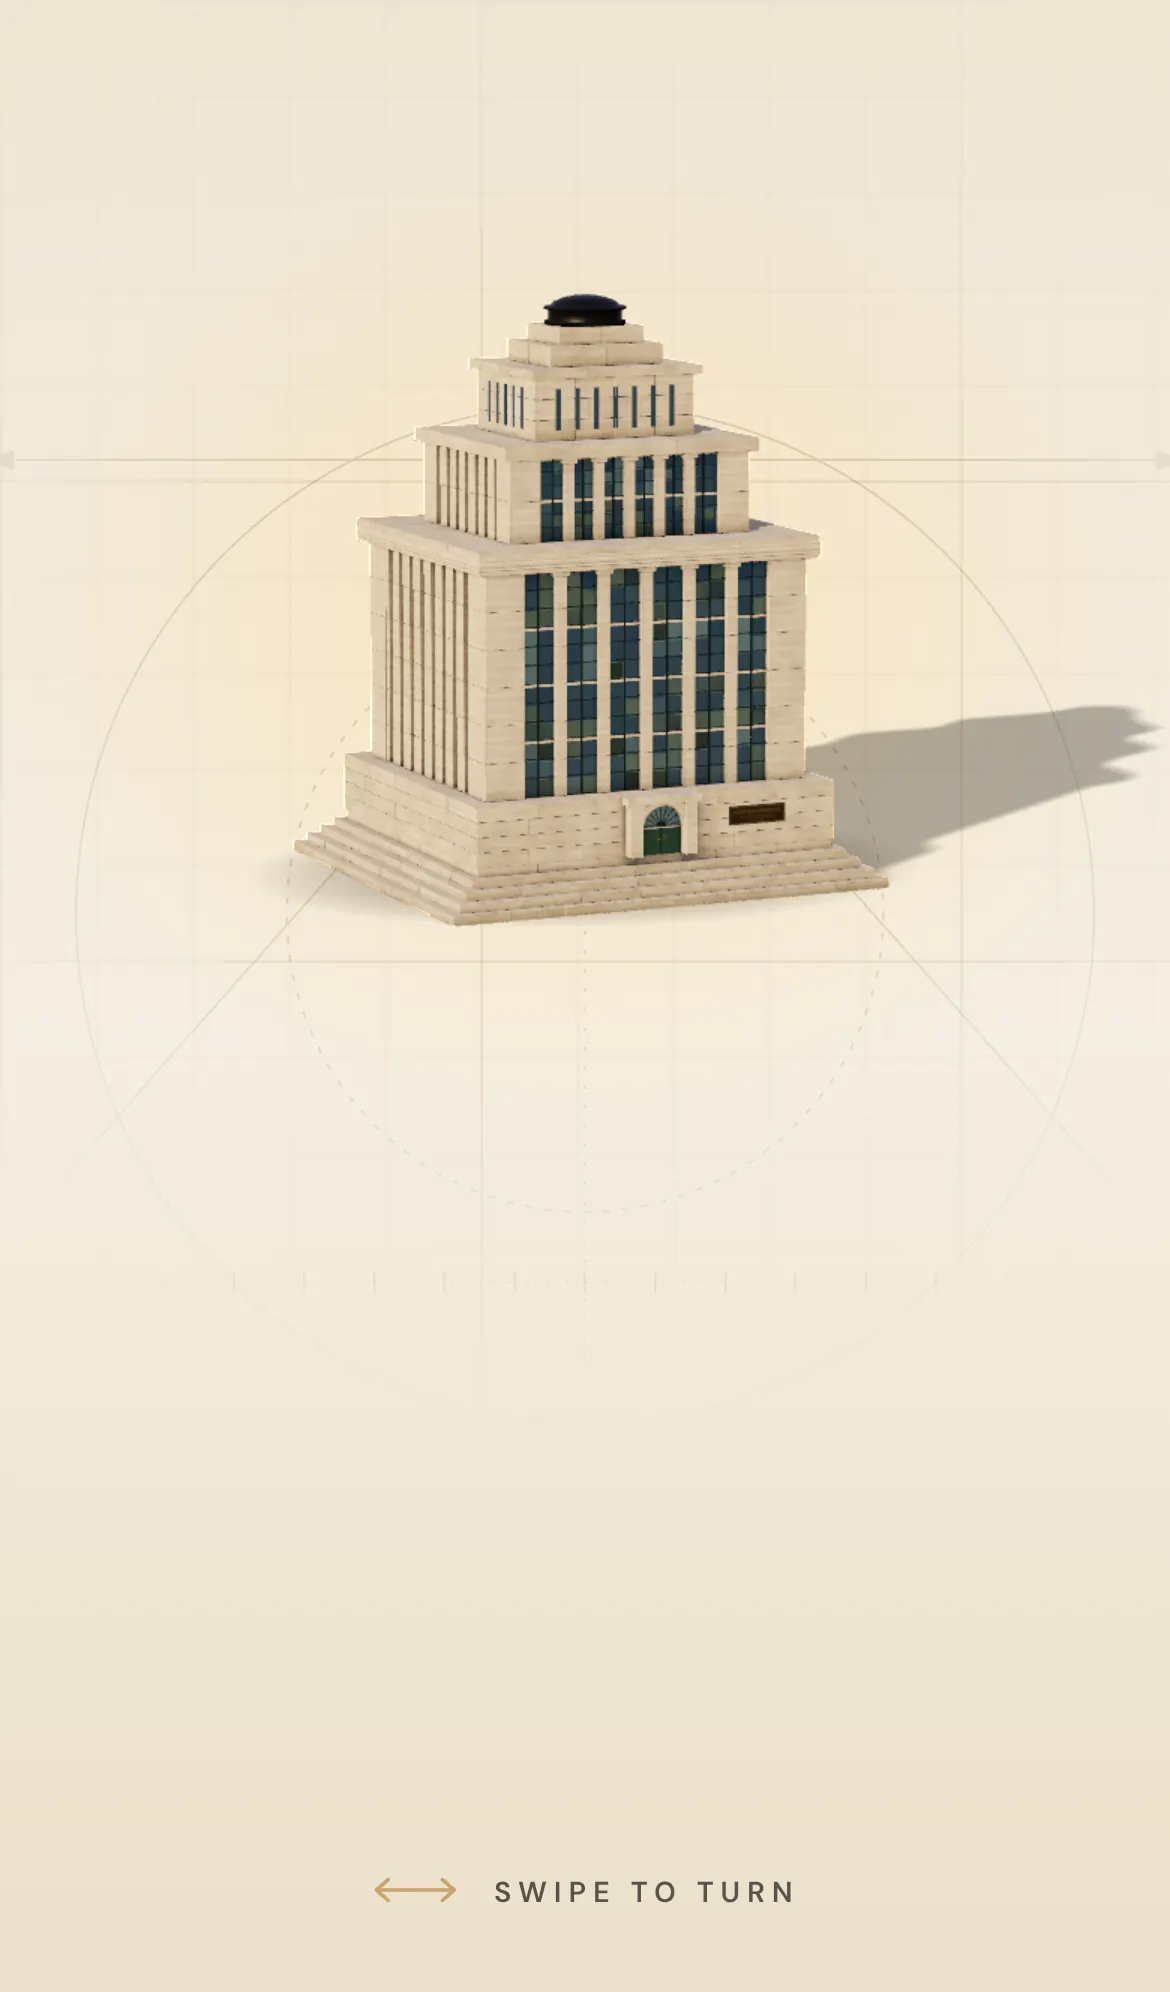
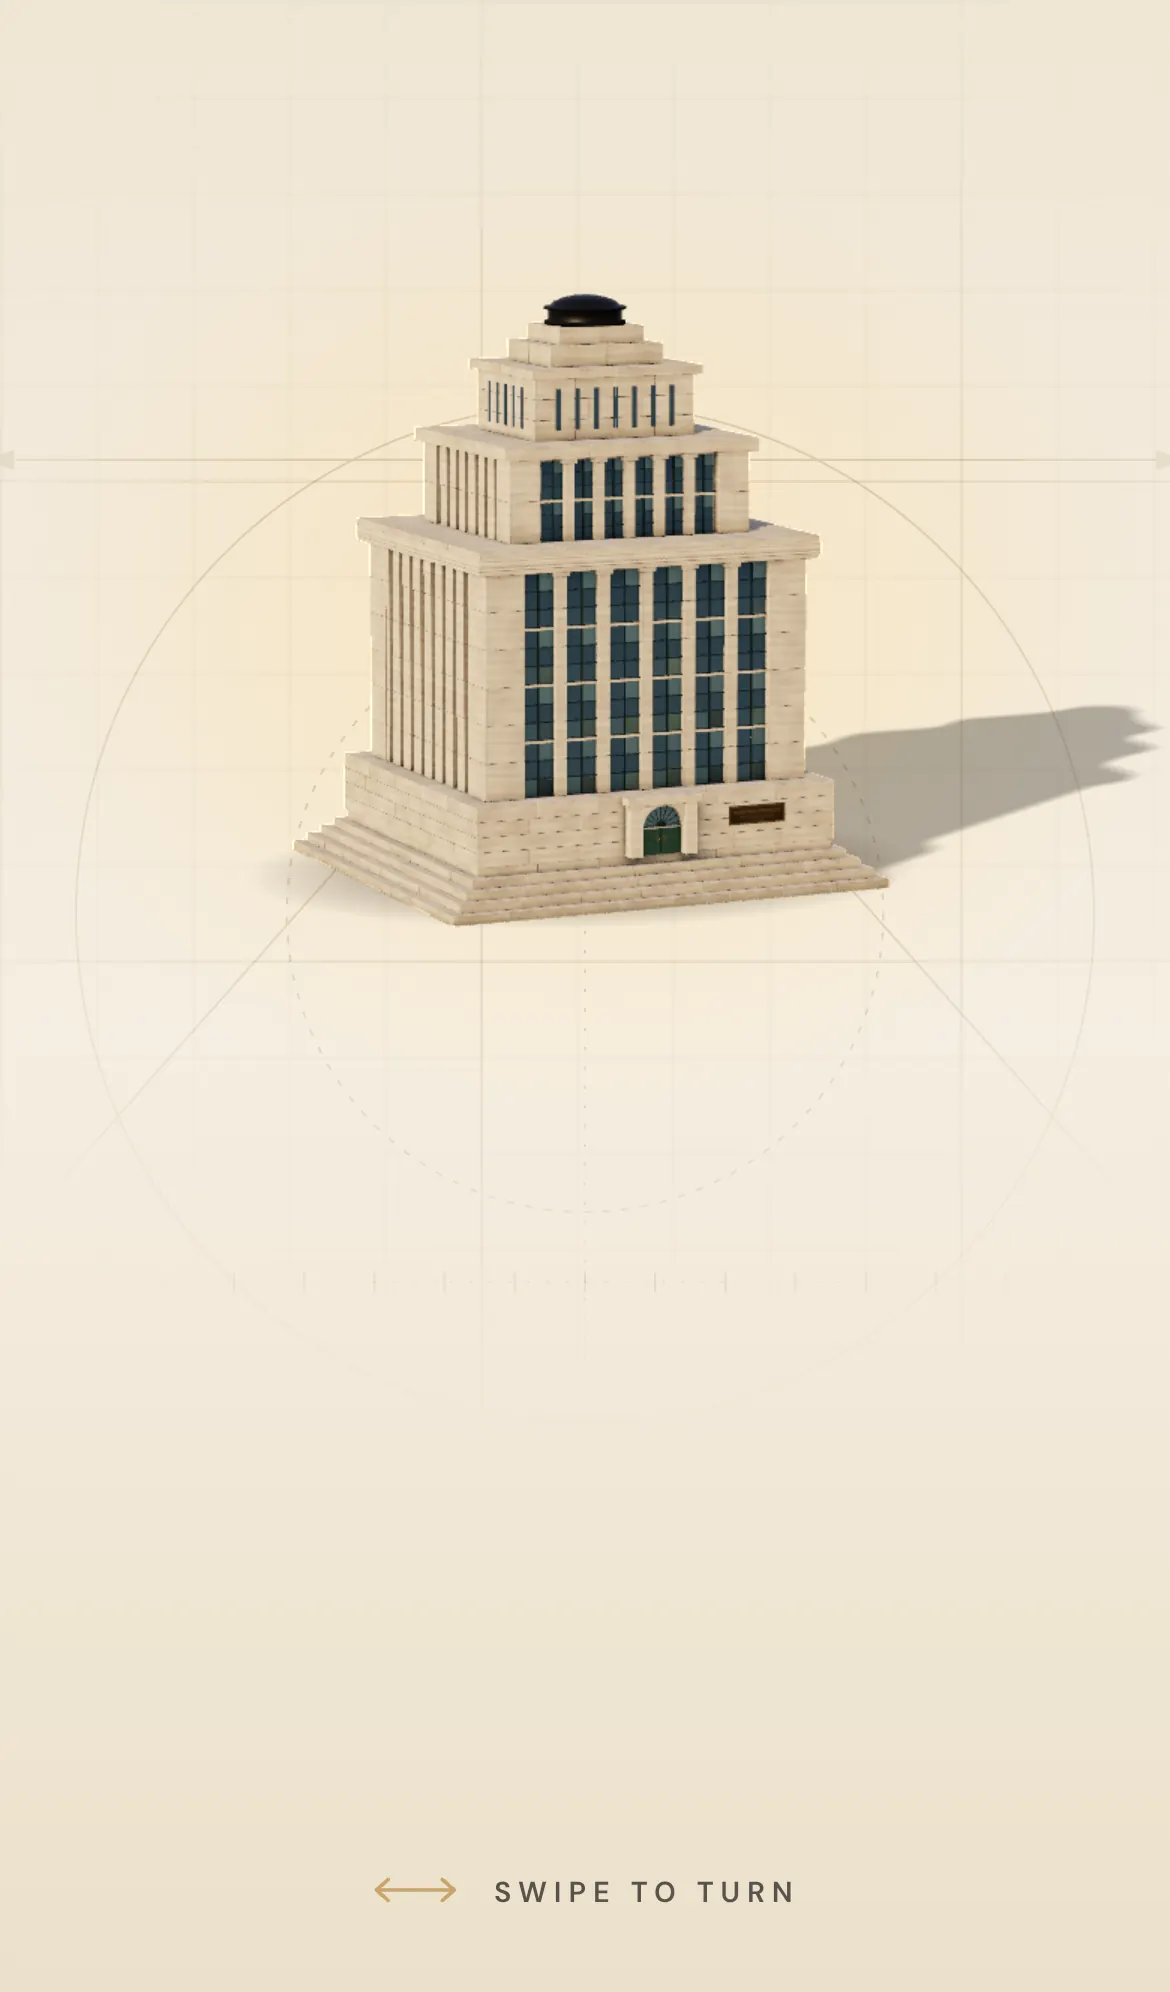
Build trade by trade: steel, then stone, then glass
Of the three construction orders, this is the one kept. In each glazed
stage the whole steel frame goes up first, lowered from above; the
stone then climbs it course by course, streaming in from the right; and
the glazing is fitted last, panel by panel. The ?build= switch and the
other two orders are removed.

The stills for browsers without WebGL are re-rendered from the tower as
it now stands.

Claude-Session: https://claude.ai/code/session_01BEd7WGPKnwpNapDZuMXaLG

Changed region(s): [[0.4308, 0.2179, 0.6769, 0.4046]]

diff --git a/assets/fee-tower.js b/assets/fee-tower.js
@@ -217,18 +217,16 @@ function start() {
   //            part of its own: it waits off screen, is called in as the visitor scrolls, and takes its place ----------
   const model = new THREE.Group();
   scene.add(model);
-  // three ways to build, for comparison (?build=2 or 3): storey by storey; trade by trade (steel, then stone, then
-  // glass); or storey by storey with every part lowered from above
-  const MODE = { 2: 'trades', 3: 'lowered' }[new URLSearchParams(location.search).get('build')] || 'storeys';
-  const WAY = MODE === 'lowered' ? [[0, 32, 0], [0, 32, 0], [0, 32, 0]] // where each trade's parts come from: steel, stone, glass
-    : MODE === 'trades' ? [[0, 30, 0], [54, 5, -5], [38, 22, -14]] : [[54, 5, -5], [54, 5, -5], [54, 5, -5]];
+  // the trades work in turn, as on a real site: steel (0), then stone (1), then glass (2). Where each one's parts
+  // come from: the steel is lowered from above, the stone streams in from the right, the glass from high on the right
+  const WAY = [[0, 30, 0], [54, 5, -5], [38, 22, -14]];
   const FLY = 0.8; // seconds a part takes to arrive and settle
   const lines = { 1: [], 2: [], 3: [], 4: [] };
   const m4 = new THREE.Matrix4(), v3 = new THREE.Vector3(), GONE = new THREE.Matrix4().makeScale(0, 0, 0);
   // one part: instances of instanced meshes and/or whole objects that travel together
   const part = (inst, objs, trade) => {
     const u = { inst: inst.map(([im, i]) => { const home = new THREE.Matrix4(); im.getMatrixAt(i, home); return [im, i, home]; }),
-      objs: objs.map((o) => [o, o.position.clone()]), trade, p: -1, level: 0, jit: rand() - 0.5 };
+      objs: objs.map((o) => [o, o.position.clone()]), trade, p: -1, jit: rand() - 0.5 };
     if (u.inst.length) v3.setFromMatrixPosition(u.inst[0][2]).applyMatrix4(u.inst[0][0].matrixWorld); else objs[0].getWorldPosition(v3);
     u.y = v3.y; u.sweep = v3.x * 0.3 - v3.z; // where it stands: lower courses first, and each course from the back to the front
     return u;
@@ -245,13 +243,9 @@ function start() {
   };
   const byCourse = (a, b) => Math.round(a.y * 50) - Math.round(b.y * 50) || a.sweep - b.sweep;
   const add = (line, obj, trade, whole) => lines[line].push(...partsOf(obj, trade, whole).sort(byCourse));
-  // a stage with several trades: built storey by storey, or (trades) all its steel, then all its stone, then its glass
-  const stage = (line, y0, fh, sets) => {
-    const all = sets.flatMap(([o, trade, whole]) => (Array.isArray(o) ? o : partsOf(o, trade, whole)));
-    for (const u of all) u.level = Math.max(0, Math.floor((u.y - y0 - 0.01) / fh));
-    all.sort(MODE === 'trades' ? (a, b) => a.trade - b.trade || byCourse(a, b) : (a, b) => a.level - b.level || a.trade - b.trade || byCourse(a, b));
-    lines[line].push(...all);
-  };
+  // a stage with several trades: all its steel goes up first, then its stone course by course, then its glass
+  const stage = (line, sets) => lines[line].push(...sets.flatMap(([o, trade, whole]) => (Array.isArray(o) ? o : partsOf(o, trade, whole)))
+    .sort((a, b) => a.trade - b.trade || byCourse(a, b)));
   // put a part where it is on its way in (p: 0 not yet called, 1 in place)
   const place = (u, far) => {
     const q = 1 - settle(u.p), w = WAY[u.trade], k = q * far * (1 + u.jit * 0.25);
@@ -450,7 +444,7 @@ function start() {
     model.add(glazing);
     glazing.updateMatrixWorld(true);
     const panels = bay.map(([a, b, c]) => part([[pm, a], [vm, b], [hm, c], [hm, c + 1], [hm, c + 2]], [], 2)).concat(sides.map((_, i) => part([[sm, i]], [], 2)));
-    stage(line, y0, fh, [[steelwork, 0], ...plates.map((pl) => [pl, 0, true]), ...stonework.map((o) => [o, 1]), [panels]]);
+    stage(line, [[steelwork, 0], ...plates.map((pl) => [pl, 0, true]), ...stonework.map((o) => [o, 1]), [panels]]);
   };
   const S0 = P0 + PH, SW = 8.4, SD = 7.4, SH = 5.4, NF = 4;
   const BAYS = [-2.8, -1.68, -0.56, 0.56, 1.68, 2.8].map((x) => [x, 0.82]), SLOTS = [], FRONT = [-2.24, -1.12, 0, 1.12, 2.24];
